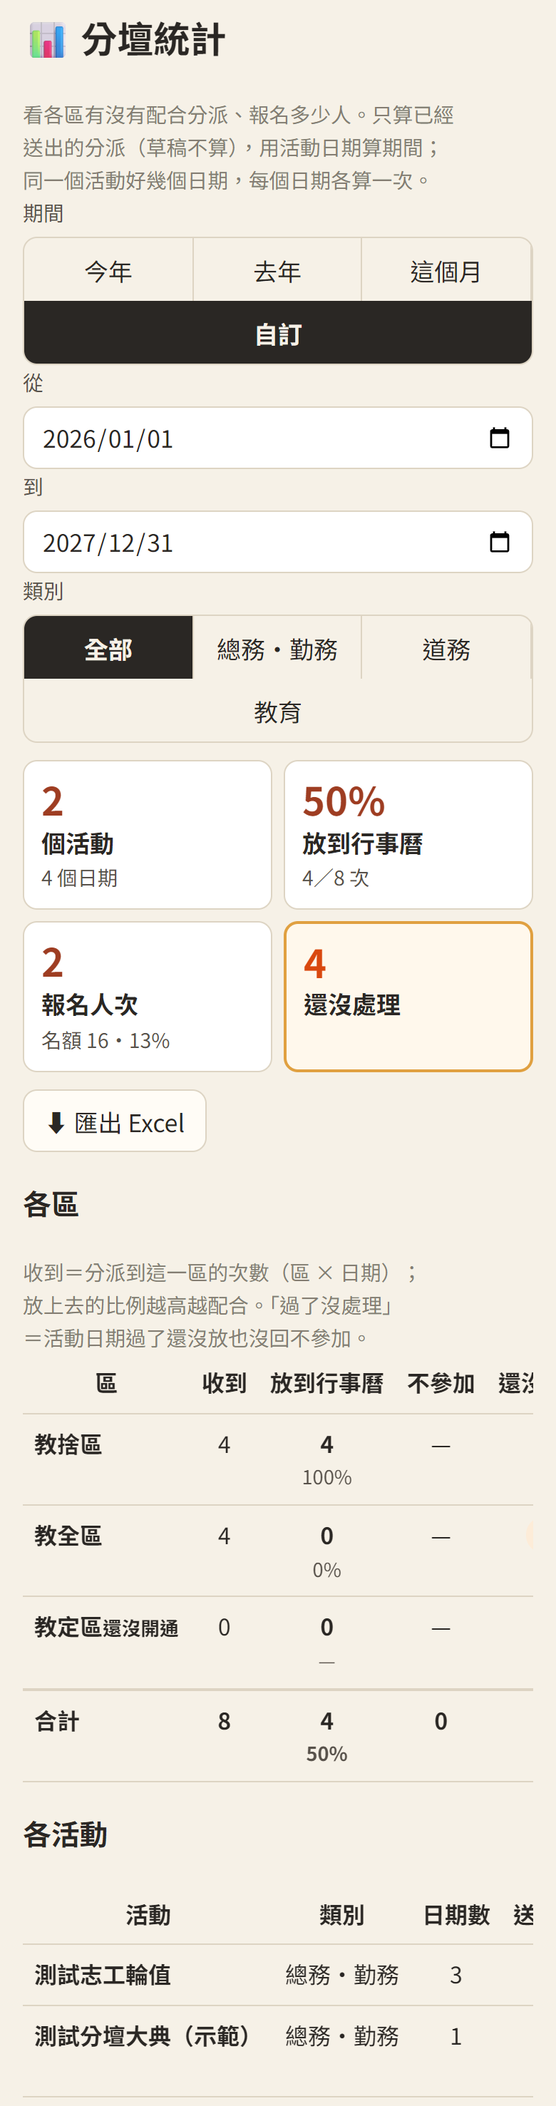
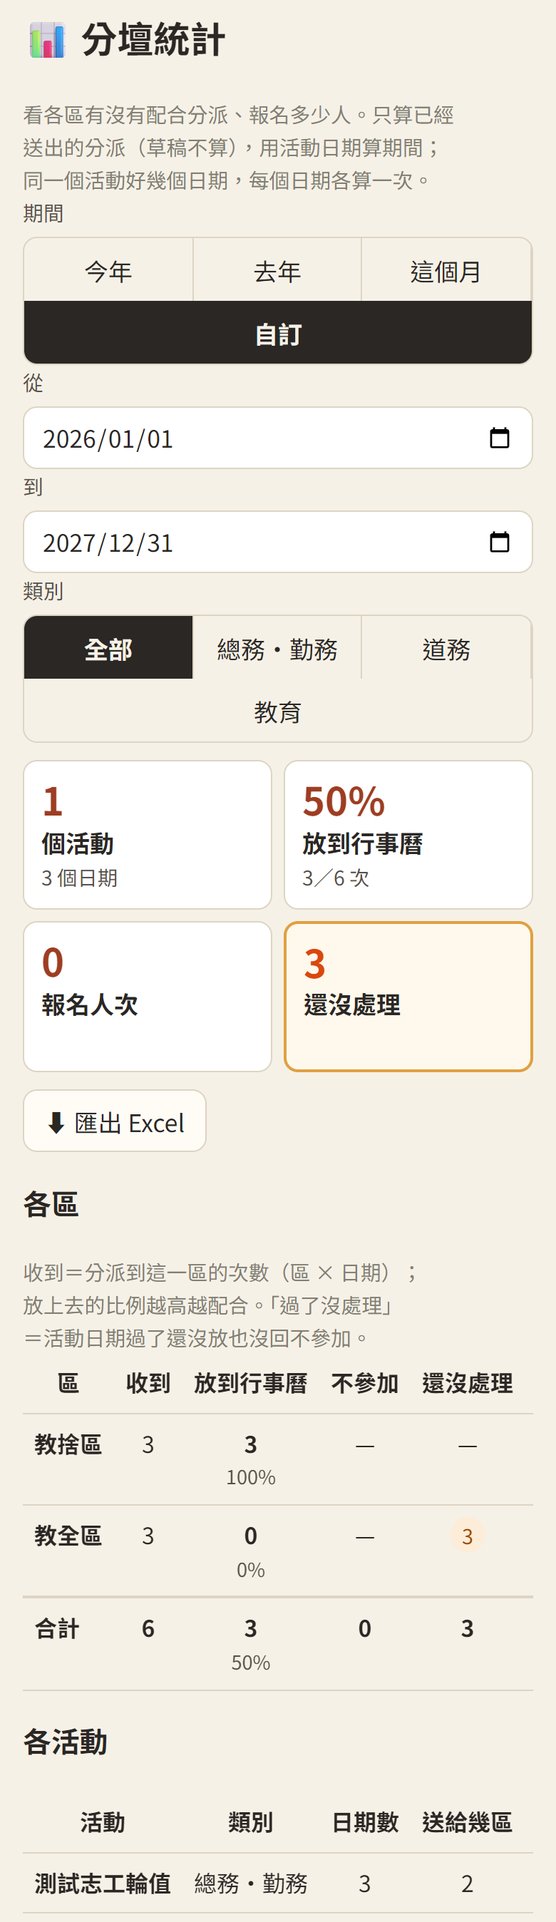
分壇唯讀帳號：只看清單、總表、整組總覽、統計，不能修改

diff --git a/index.html b/index.html
@@ -23,7 +23,7 @@
   <link rel="preconnect" href="https://fonts.googleapis.com">
   <link rel="preconnect" href="https://fonts.gstatic.com" crossorigin>
   <link href="https://fonts.googleapis.com/css2?family=Noto+Sans+TC:wght@400;500;700&family=Noto+Serif+TC:wght@600;700&display=swap" rel="stylesheet">
-  <link rel="stylesheet" href="css/app.css?v=20261122y">
+  <link rel="stylesheet" href="css/app.css?v=20261122z">
   <script>try { var t = localStorage.getItem('duty-calendar:text-size'); if (t === 'l' || t === 'xl') document.documentElement.classList.add('text-' + t); } catch (e) {}</script>
 </head>
 <body class="splash-on">
@@ -118,67 +118,67 @@
   <script src="https://cdn.jsdelivr.net/npm/fullcalendar@6.1.21/index.global.min.js"></script>
   <script src="https://cdn.jsdelivr.net/npm/@fullcalendar/core@6.1.21/locales/zh-tw.global.min.js"></script>
   <!-- 改了 js、css 後把 ?v= 的日期換新，手機才不會用到舊的檔案（GitHub Pages 會快取 10 分鐘） -->
-  <script src="js/site.js?v=20261122y"></script>
-  <script src="js/region.js?v=20261122y"></script>
-  <script src="js/config.js?v=20261122y"></script>
-  <script src="js/api.js?v=20261122y"></script>
-  <script src="js/format.js?v=20261122y"></script>
-  <script src="js/member-suggest.js?v=20261122y"></script>
-  <script src="js/member-file.js?v=20261122y"></script>
-  <script src="js/family.js?v=20261122y"></script>
-  <script src="js/lunar-util.js?v=20261122y"></script>
-  <script src="js/date-list.js?v=20261122y"></script>
-  <script src="js/share.js?v=20261122y"></script>
-  <script src="js/addcal.js?v=20261122y"></script>
-  <script src="js/duty-cache.js?v=20261122y"></script>
-  <script src="js/thanks-board.js?v=20261122y"></script>
-  <script src="js/calendar.js?v=20261122y"></script>
-  <script src="js/confirm.js?v=20261122y"></script>
-  <script src="js/reschedule.js?v=20261122y"></script>
-  <script src="js/signup.js?v=20261122y"></script>
-  <script src="js/duty-images.js?v=20261122y"></script>
-  <script src="js/roster-grid.js?v=20261122y"></script>
-  <script src="js/grid-page.js?v=20261122y"></script>
-  <script src="js/grid-image.js?v=20261122y"></script>
-  <script src="js/thanks-image.js?v=20261122y"></script>
-  <script src="js/celebrate.js?v=20261122y"></script>
-  <script src="js/duty.js?v=20261122y"></script>
-  <script src="js/mine.js?v=20261122y"></script>
-  <script src="js/venue-hours.js?v=20261122y"></script>
-  <script src="js/venue.js?v=20261122y"></script>
-  <script src="js/push.js?v=20261122y"></script>
-  <script src="js/admin.js?v=20261122y"></script>
-  <script src="js/admin-pages.js?v=20261122y"></script>
-  <script src="js/draft-editor.js?v=20261122y"></script>
-  <script src="js/group-fair.js?v=20261122y"></script>
-  <script src="js/admin-duties.js?v=20261122y"></script>
-  <script src="js/admin-accounts.js?v=20261122y"></script>
-  <script src="js/admin-site.js?v=20261122y"></script>
-  <script src="js/region-setup.js?v=20261122y"></script>
-  <script src="js/import-parse.js?v=20261122y"></script>
-  <script src="js/admin-import.js?v=20261122y"></script>
-  <script src="js/admin-people.js?v=20261122y"></script>
-  <script src="js/admin-hq.js?v=20261122y"></script>
-  <script src="js/stats-calc.js?v=20261122y"></script>
-  <script src="js/edu-stats.js?v=20261122y"></script>
-  <script src="js/admin-goals.js?v=20261122y"></script>
-  <script src="js/admin-venue.js?v=20261122y"></script>
-  <script src="js/admin-push.js?v=20261122y"></script>
-  <script src="js/tutorial.js?v=20261122y"></script>
-  <script src="js/help.js?v=20261122y"></script>
-  <script src="js/rollcall.js?v=20261122y"></script>
-  <script src="js/stats-export.js?v=20261122y"></script>
-  <script src="js/repair.js?v=20261122y"></script>
-  <script src="js/activity-report.js?v=20261122y"></script>
-  <script src="js/member-stats.js?v=20261122y"></script>
-  <script src="js/admin-stats.js?v=20261122y"></script>
-  <script src="js/admin-report.js?v=20261122y"></script>
-  <script src="js/admin-recent-signups.js?v=20261122y"></script>
-  <script src="js/admin-notice.js?v=20261122y"></script>
-  <script src="js/admin-notify.js?v=20261122y"></script>
-  <script src="js/history-parse.js?v=20261122y"></script>
-  <script src="js/admin-history.js?v=20261122y"></script>
-  <script src="js/easy-mode.js?v=20261122y"></script>
-  <script src="js/app.js?v=20261122y"></script>
+  <script src="js/site.js?v=20261122z"></script>
+  <script src="js/region.js?v=20261122z"></script>
+  <script src="js/config.js?v=20261122z"></script>
+  <script src="js/api.js?v=20261122z"></script>
+  <script src="js/format.js?v=20261122z"></script>
+  <script src="js/member-suggest.js?v=20261122z"></script>
+  <script src="js/member-file.js?v=20261122z"></script>
+  <script src="js/family.js?v=20261122z"></script>
+  <script src="js/lunar-util.js?v=20261122z"></script>
+  <script src="js/date-list.js?v=20261122z"></script>
+  <script src="js/share.js?v=20261122z"></script>
+  <script src="js/addcal.js?v=20261122z"></script>
+  <script src="js/duty-cache.js?v=20261122z"></script>
+  <script src="js/thanks-board.js?v=20261122z"></script>
+  <script src="js/calendar.js?v=20261122z"></script>
+  <script src="js/confirm.js?v=20261122z"></script>
+  <script src="js/reschedule.js?v=20261122z"></script>
+  <script src="js/signup.js?v=20261122z"></script>
+  <script src="js/duty-images.js?v=20261122z"></script>
+  <script src="js/roster-grid.js?v=20261122z"></script>
+  <script src="js/grid-page.js?v=20261122z"></script>
+  <script src="js/grid-image.js?v=20261122z"></script>
+  <script src="js/thanks-image.js?v=20261122z"></script>
+  <script src="js/celebrate.js?v=20261122z"></script>
+  <script src="js/duty.js?v=20261122z"></script>
+  <script src="js/mine.js?v=20261122z"></script>
+  <script src="js/venue-hours.js?v=20261122z"></script>
+  <script src="js/venue.js?v=20261122z"></script>
+  <script src="js/push.js?v=20261122z"></script>
+  <script src="js/admin.js?v=20261122z"></script>
+  <script src="js/admin-pages.js?v=20261122z"></script>
+  <script src="js/draft-editor.js?v=20261122z"></script>
+  <script src="js/group-fair.js?v=20261122z"></script>
+  <script src="js/admin-duties.js?v=20261122z"></script>
+  <script src="js/admin-accounts.js?v=20261122z"></script>
+  <script src="js/admin-site.js?v=20261122z"></script>
+  <script src="js/region-setup.js?v=20261122z"></script>
+  <script src="js/import-parse.js?v=20261122z"></script>
+  <script src="js/admin-import.js?v=20261122z"></script>
+  <script src="js/admin-people.js?v=20261122z"></script>
+  <script src="js/admin-hq.js?v=20261122z"></script>
+  <script src="js/stats-calc.js?v=20261122z"></script>
+  <script src="js/edu-stats.js?v=20261122z"></script>
+  <script src="js/admin-goals.js?v=20261122z"></script>
+  <script src="js/admin-venue.js?v=20261122z"></script>
+  <script src="js/admin-push.js?v=20261122z"></script>
+  <script src="js/tutorial.js?v=20261122z"></script>
+  <script src="js/help.js?v=20261122z"></script>
+  <script src="js/rollcall.js?v=20261122z"></script>
+  <script src="js/stats-export.js?v=20261122z"></script>
+  <script src="js/repair.js?v=20261122z"></script>
+  <script src="js/activity-report.js?v=20261122z"></script>
+  <script src="js/member-stats.js?v=20261122z"></script>
+  <script src="js/admin-stats.js?v=20261122z"></script>
+  <script src="js/admin-report.js?v=20261122z"></script>
+  <script src="js/admin-recent-signups.js?v=20261122z"></script>
+  <script src="js/admin-notice.js?v=20261122z"></script>
+  <script src="js/admin-notify.js?v=20261122z"></script>
+  <script src="js/history-parse.js?v=20261122z"></script>
+  <script src="js/admin-history.js?v=20261122z"></script>
+  <script src="js/easy-mode.js?v=20261122z"></script>
+  <script src="js/app.js?v=20261122z"></script>
 </body>
 </html>

diff --git a/js/admin-hq.js b/js/admin-hq.js
@@ -13,7 +13,8 @@
     withdrawn: ['已收回', 'st-no'], 'not-open': ['還沒開通', 'st-off'], none: ['沒收到', 'st-off'], error: ['連不上', 'st-off']
   };
   /** 這個帳號能選的類別（分壇的總務・勤務／道務／教育帳號只能選自己那一類，2026/11/22） */
-  const myCats = () => { const r = (Api.adminWho() || {}).role; return CATS.filter(([v]) => r === '總管理者' || r === v); };
+  const myCats = () => { const r = (Api.adminWho() || {}).role; return CATS.filter(([v]) => r === '總管理者' || r === '唯讀' || r === v); };
+  const readOnly = () => (Api.adminWho() || {}).role === '唯讀'; // 唯讀帳號：只看清單、總表、整組總覽、統計
   const catLabel = (c) => (CATS.find((x) => x[0] === c) || [c, c])[1];
   const when = (c) => [Fmt.shortDate(c.start) + (c.end && c.end !== c.start ? '～' + Fmt.shortDate(c.end) : ''), c.startTime ? c.startTime + (c.endTime ? '–' + c.endTime : '') : '', c.location].filter(Boolean).join('・');
   const quotaText = (c, q) => (c.quotaMode === 'none' ? '不限' : q ? q + ' 位' : c.quotaMode === 'self' ? '各區自己報' : '不限');
@@ -25,6 +26,7 @@
   // =====================================================================
 
   async function show(body, guard, sub) {
+    if (readOnly() && /^hq\/(new|edit\/|import|group\/)/.test(sub || '')) { location.replace('#/admin'); return; }
     if (sub === 'hq/import') return importPage(body, guard);
     if (/^hq\/group\//.test(sub || '')) return groupPage(body, guard, decodeURIComponent(sub.slice(9)));
     if (/^hq\/overview\//.test(sub || '')) return overview(body, guard, decodeURIComponent(sub.slice(12)));
@@ -44,7 +46,7 @@
     body.innerHTML = `
       <div class="notice"><p>📣 <strong>分派</strong>：開一個活動送給各區。各區的<strong>總務・勤務／道務／教育組長</strong>會在後台先看到，看過按「放到本區行事曆」才會出現在那一區的行事曆，家人在自己區報名；這裡的總表看得到每一區的狀態、人數和名字。</p>
       <p class="muted">13 區已開通 ${openN} 區；還沒開通的區收不到。</p></div>
-      <div class="admin-actions"><a class="btn btn-primary" href="#/admin/hq/new">＋ 開新的分派</a><a class="btn" href="#/admin/hq/import">📄 從檔案匯入行事曆</a></div>
+      ${readOnly() ? '<p class="role-note">👀 唯讀帳號：看得到各區的狀況、報名人數和統計，不能開或修改分派。</p>' : '<div class="admin-actions"><a class="btn btn-primary" href="#/admin/hq/new">＋ 開新的分派</a><a class="btn" href="#/admin/hq/import">📄 從檔案匯入行事曆</a></div>'}
       ${data.campaigns.some((c) => c.status === 'draft') ? `<p class="hint">📝 草稿：各區還看不到。同一個名稱的併成一組，點進去一起檢查一次，按「送出給各區」。</p>` : ''}
       ${data.campaigns.length ? `<div class="card-list">${draftGroups(data.campaigns).map((g) => `<a class="duty-card hq-card is-draft" href="#/admin/hq/group/${encodeURIComponent(g.key)}">
           <span class="card-main"><span class="card-title"><span class="hq-st st-seen">📝 草稿</span> ${esc(g.items[0].title)}${g.items.length > 1 ? `<small>（${g.items.length} 個日期）</small>` : ''}</span>
@@ -515,10 +517,10 @@
       <h2>${esc(c.title)}</h2>
       <p class="muted">${esc(catLabel(c.category))}・${esc(when(c))}${c.deadline ? '・報名截止 ' + esc(Fmt.shortDate(c.deadline)) : ''}・名額：${esc({ none: '不限', assigned: '分壇分配', self: '各區自己報' }[c.quotaMode])}</p>
       <div class="admin-actions">
-        <a class="btn" href="#/admin/hq/edit/${encodeURIComponent(c.id)}">✏ 修改</a>
+        ${readOnly() ? '' : `<a class="btn" href="#/admin/hq/edit/${encodeURIComponent(c.id)}">✏ 修改</a>`}
         <button type="button" class="btn" data-xlsx>⬇ 匯出 Excel</button>
         <button type="button" class="btn" data-remind>📋 提醒還沒處理的區</button>
-        <button type="button" class="btn btn-quiet-danger" data-del>🗑 刪除分派</button>
+        ${readOnly() ? '' : '<button type="button" class="btn btn-quiet-danger" data-del>🗑 刪除分派</button>'}
       </div>
       <div class="hq-total"><strong>${totalN}</strong> 位已報名${totalQ ? `／名額 ${totalQ} 位${totalN < totalQ ? `，還差 <strong>${totalQ - totalN}</strong> 位` : ''}` : ''}</div>
       <div class="hq-table-wrap"><table class="hq-table">
@@ -564,7 +566,7 @@
       } catch (e) { alert(e.message || '匯出失敗'); }
       btn.disabled = false;
     });
-    body.querySelector('[data-del]').addEventListener('click', async () => {
+    if (body.querySelector('[data-del]')) body.querySelector('[data-del]').addEventListener('click', async () => {
       const ok = await Confirm.open({ title: '確定要刪除這個分派嗎？', rows: [['名稱', c.title], ['日期', when(c)]], note: '各區的收件匣會標「分壇已收回」。已經放到行事曆、有人報名的，那一區的活動會留著，由組長自己決定。', confirmText: '確定刪除', cancelText: '不要刪除', danger: true });
       if (!ok) return;
       Busy.show('刪除中⋯');

diff --git a/worker/src/hq.js b/worker/src/hq.js
@@ -17,14 +17,16 @@ export function createHq({ gs, store, cross, openRegions }) {
   const err = (code, msg, details) => new gs.ApiError_(code, msg, details);
   const list = () => { try { const a = JSON.parse(store.getProp('HQ_CAMPAIGNS') || '[]'); return Array.isArray(a) ? a : []; } catch (e) { return []; } };
   const save = (a) => store.setProp('HQ_CAMPAIGNS', JSON.stringify(a));
-  function requireHqAdmin(body, curRegion) {
+  /** read＝只看的功能（清單、總表、整組總覽、統計）：唯讀帳號也可以（2026/11/22） */
+  function requireHqAdmin(body, curRegion, read) {
     if (curRegion !== HQ_CODE) throw err('FORBIDDEN', '這是宏教分壇才能用的功能');
     const who = gs.requireAdmin_(body);
-    if (['總管理者'].concat(CATS).indexOf(who.role) === -1) throw err('FORBIDDEN', '這個帳號不能用分派（分壇的帳號只有總管理者、總務・勤務、道務、教育）');
+    if (who.role === '唯讀') { if (read) return who; throw err('FORBIDDEN', '唯讀帳號只能看，不能修改'); }
+    if (['總管理者'].concat(CATS).indexOf(who.role) === -1) throw err('FORBIDDEN', '這個帳號不能用分派（分壇的帳號只有總管理者、總務・勤務、道務、教育、唯讀）');
     return who;
   }
   /** 這個帳號能不能管這一類（總管理者全部；勤務／道務／教育只管自己那一類） */
-  const canCat = (who, cat) => who.role === '總管理者' || who.role === cat;
+  const canCat = (who, cat) => who.role === '總管理者' || who.role === '唯讀' || who.role === cat;
   const catName = (cat) => (cat === '勤務' ? '總務・勤務' : cat);
   function guardCat(who, c) {
     if (c && !canCat(who, c.category)) throw err('FORBIDDEN', '這個帳號只能管「' + catName(who.role) + '」的分派，「' + (c.title || '') + '」是「' + catName(c.category) + '」的');
@@ -111,9 +113,9 @@ export function createHq({ gs, store, cross, openRegions }) {
   const special = {};
   /** 分派清單（新的排前面） */
   special.hqList = async (body, curRegion) => {
-    const who = requireHqAdmin(body, curRegion);
+    const who = requireHqAdmin(body, curRegion, true);
     const open = await openSet();
-    return { role: who.role, campaigns: list().filter((c) => canCat(who, c.category)).slice().sort((a, b) => b.start.localeCompare(a.start)), targets: TARGETS.map(([code, name]) => ({ code, name, open: open.has(code) })) };
+    return { role: who.role, campaigns: list().filter((c) => canCat(who, c.category) && !(who.role === '唯讀' && c.status === 'draft')).slice().sort((a, b) => b.start.localeCompare(a.start)), targets: TARGETS.map(([code, name]) => ({ code, name, open: open.has(code) })) };
   };
   /** 新增或修改分派（body.campaign；有 id＝修改），存好馬上送出去 */
   special.hqSave = async (body, curRegion) => {
@@ -208,7 +210,7 @@ export function createHq({ gs, store, cross, openRegions }) {
   };
   /** 總表：每一區的狀態、名額、報名人數、名字 */
   special.hqSummary = async (body, curRegion) => {
-    const who = requireHqAdmin(body, curRegion);
+    const who = requireHqAdmin(body, curRegion, true);
     const c = list().find((x) => x.id === body.id);
     if (!c) throw err('NOT_FOUND', '找不到這個分派');
     guardCat(who, c);
@@ -226,7 +228,7 @@ export function createHq({ gs, store, cross, openRegions }) {
    * 每一區只問一次（hqReportMany），回傳 { campaigns, regions: [{code,name,open}], cells: { 分派代號: { 區: 回報 } } }
    */
   special.hqGroupSummary = async (body, curRegion) => {
-    const who = requireHqAdmin(body, curRegion);
+    const who = requireHqAdmin(body, curRegion, true);
     const ids = Array.isArray(body.ids) ? body.ids.map(String) : [];
     const cs = list().filter((x) => ids.indexOf(x.id) !== -1 && x.status !== 'draft' && canCat(who, x.category)).sort((a, b) => a.start.localeCompare(b.start));
     if (!cs.length) throw err('NOT_FOUND', '找不到這些分派，可能已經刪掉了');
@@ -237,7 +239,7 @@ export function createHq({ gs, store, cross, openRegions }) {
    * 回傳和整組總覽一樣的格式，但不含名字（只要狀態、名額、人數）；畫面上再依區、類別、活動加總。
    */
   special.hqStats = async (body, curRegion) => {
-    const who = requireHqAdmin(body, curRegion);
+    const who = requireHqAdmin(body, curRegion, true);
     const from = DATE.test(String(body.from || '')) ? body.from : '0000-00-00';
     const to = DATE.test(String(body.to || '')) ? body.to : '9999-99-99';
     const cs = list().filter((x) => x.status !== 'draft' && canCat(who, x.category) && x.start >= from && x.start <= to).sort((a, b) => a.start.localeCompare(b.start));

diff --git a/js/admin-accounts.js b/js/admin-accounts.js
@@ -13,7 +13,7 @@
   };
   // 宏教分壇（2026/11/22）：只有總務・勤務／道務／教育帳號，各自只管自己那一類的分派
   const isHq = !!(window.Region && Region.code === 'hq');
-  if (isHq) { ROLE_NOTE.勤務 = '總務・勤務的分派：開、改、送出、看總表和統計'; ROLE_NOTE.道務 = '道務的分派：開、改、送出、看總表和統計'; ROLE_NOTE.教育 = '教育的分派：開、改、送出、看總表和統計'; }
+  if (isHq) { ROLE_NOTE.勤務 = '總務・勤務的分派：開、改、送出、看總表和統計'; ROLE_NOTE.道務 = '道務的分派：開、改、送出、看總表和統計'; ROLE_NOTE.教育 = '教育的分派：開、改、送出、看總表和統計'; ROLE_NOTE.唯讀 = '全部分派的總表、整組總覽、統計都看得到，什麼都不能改'; }
 
   function show(body, guard) {
     body.innerHTML = '<p class="panel-empty">載入中⋯</p>';
@@ -66,7 +66,7 @@
         <form class="admin-form" novalidate>
           <label class="form-row"><span>帳號（登入時輸入）</span><input class="input" id="acc-account" name="account" value="${esc(a ? a.account : '')}" placeholder="例：道務組" autocomplete="off"></label>
           <label class="form-row"><span>名稱或負責人（選填）</span><input class="input" id="acc-name" name="name" value="${esc(a ? a.name : '')}"></label>
-          <div class="form-row"><span>角色</span><div class="role-pick">${data.roles.filter((r) => !isHq || ['勤務', '道務', '教育'].indexOf(r) !== -1).map((r) => `
+          <div class="form-row"><span>角色</span><div class="role-pick">${data.roles.filter((r) => !isHq || ['勤務', '道務', '教育', '唯讀'].indexOf(r) !== -1).map((r) => `
             <label class="role-option"><input type="radio" name="role" value="${esc(r)}"${(a ? a.role : '') === r ? ' checked' : ''}><b>${esc(isHq && r === '勤務' ? '總務・勤務' : r)}</b><small>${esc(ROLE_NOTE[r] || '')}</small></label>`).join('')}</div></div>
           <label class="form-row"><span>${isNew ? '密碼' : '新密碼（不改就留空）'}</span>
             <div class="pw-row"><input class="input" id="acc-password" name="password" type="text" autocomplete="new-password"><button type="button" class="btn btn-small" data-gen>產生一組</button></div></label>

diff --git a/js/admin.js b/js/admin.js
@@ -459,6 +459,7 @@
 
   /** 角色說明（勤務／道務／教育／唯讀帳號在每頁上方看到） */
   function roleNote(role) {
+    if (isHq() && role === '唯讀') return '';
     if (isHq()) return ['勤務', '道務', '教育'].indexOf(role) !== -1 ? `<p class="role-note">這個帳號管理「${role === '勤務' ? '總務・勤務' : esc(role)}」的分派；其他類別的看不到。</p>` : '';
     if (role === '唯讀') return '<p class="role-note">👀 唯讀帳號：可以查看所有資料，不能修改。</p>';
     if (role === '場管') return `<p class="role-note">🏠 ${esc(window.SITE.venue)}場管帳號：審核家人們的場地借用申請。</p>`;

diff --git a/docs/spec.md b/docs/spec.md
@@ -332,7 +332,7 @@
   - **開分派**：名稱、類別（總務・勤務／道務／教育＝送給各區哪一組的組長）、性質（依類別）、日期（可跨天）、時間（可打 0830）、地點、服裝、說明、了愿項目（「、」分開，空白＝參加）、報名截止日、送給哪幾區（教全區＋12 區，還沒開通的標「收不到」，「全選已開通的」）、名額（不限／分壇分配：每區填數字，空白＝那區不限／各區自己報）。存檔馬上送出（worker/src/hq.js hqSave → 各區 Durable Object hqRpc → apps-script/Hq.gs hqDeliver_），記下每區送到沒有；修改後重新送，取消勾的區收回（hqWithdraw_）。分派存在分壇的指令碼屬性 HQ_CAMPAIGNS。
   - **總表**（hqSummary → 各區 hqReport_）：每區狀態（還沒看／看過了，還沒放／已放到行事曆／不參加＋原因／已收回／還沒開通）、名額、已報名（陪同不算）、還差；點人數看名字（姓名、身分、佛堂、項目，不含電話）；上面合計；「⬇ 匯出 Excel」（總計＋每區一個分頁）；「📋 提醒還沒處理的區」產生文字（複製／傳到 LINE）；「✏ 修改」「🗑 刪除分派」（各區收回，已放上去的勤務留著）。
   - **各區**（Hq.gs，收件匣存指令碼屬性 HQ_INBOX）：後台首頁最上面「📥 宏教分壇分派：N 件待處理」（新的、看過還沒放、分壇有更新），「去看看」→ #/admin/hqinbox 收件匣；總管理者看全部，總務・勤務／道務／教育帳號只看自己類別，唯讀看不到。點開＝看過（記誰、何時）；「📅 放到本區行事曆」：可填本區補充說明、負責組，各區自己報名額的要填幾位 → 新增一筆勤務（來源欄＝HQ:分派代號，說明＝分壇說明＋本區名額＋【本區補充】；只有一個了愿項目時名額＝最多人數）；已放上去的同一個按鈕改本區補充。「本區不參加」要寫原因；已有人報名不能不參加；沒人報名的會從行事曆拿下來。分壇改內容時已放上去的勤務自動照新內容改（以總管理者身分 adminUpdateDuty_，失敗記 syncError 顯示），收件匣標「分壇有更新」。分壇分派的勤務在勤務管理不能直接修改、刪除（guardHqDuty_），行事曆卡片標 📣、報名頁標「📣 宏教分壇分派」。
-  - **分壇帳號（2026/11/22）**：分壇後台上方「📣 分派」「📊 統計」，總管理者另有「👤 帳號」（AccountsPage；分壇只能開「總務・勤務／道務／教育」帳號，沒有完整備份）。勤務／道務／教育帳號只看得到、開得了、改得了、刪得了自己那一類的分派（hqList 篩選；hqSave／hqSaveMany／hqSaveDrafts／hqDelete／hqDeleteDrafts／hqSummary／hqGroupSummary／hqStats 都檢查類別；畫面上類別只能選自己那一類）；唯讀、場管帳號不能用分派。
+  - **分壇帳號（2026/11/22）**：分壇後台上方「📣 分派」「📊 統計」，總管理者另有「👤 帳號」（AccountsPage；分壇只能開「總務・勤務／道務／教育」帳號，沒有完整備份）。勤務／道務／教育帳號只看得到、開得了、改得了、刪得了自己那一類的分派（hqList 篩選；hqSave／hqSaveMany／hqSaveDrafts／hqDelete／hqDeleteDrafts／hqSummary／hqGroupSummary／hqStats 都檢查類別；畫面上類別只能選自己那一類）；**唯讀帳號**（2026/11/22 加）：看得到全部類別已送出的分派清單、總表、整組總覽、統計（草稿看不到），沒有開新分派、匯入、修改、刪除（hqList／hqSummary／hqGroupSummary／hqStats 允許唯讀，其他都擋）；場管帳號不能用分派。帳號頁分壇可開的角色：總務・勤務、道務、教育、唯讀。
   - **📊 分壇統計（2026/11/22，#/admin/hqstats）**：期間（今年、去年、這個月、自訂，用活動日期）、類別（總管理者可選全部或一類）。hqStats 回傳期間內已送出的分派 × 各區的狀態、名額、人數（每一區只問一次 hqCountMany，不帶名字）。畫面：活動數（日期數）、放到行事曆比例、報名人次（名額、達成率）、還沒處理（其中已經過了的）；各區表（收到、放到行事曆、比例、不參加、還沒處理、過了沒處理、報名人次、名額，依配合度排）；各活動表（類別、日期數、送給幾區、報名人次、名額）；匯出 Excel（各區、各活動兩張表）。
   - **整組總覽（2026/11/22）**：分壇分派清單已送出的同名（名稱去空白＋類別）好幾個日期併成一張卡「（N 個日期）點開看整組總覽」（#/admin/hq/overview/<key>；單一日期的總表也有「📊 同名的整組總覽」連結）。hqGroupSummary：每一區只問一次（Durable Object 之間 hqReportMany），回傳日期 × 各區的狀態、名額、人數、名字。畫面：全部報名／名額、還有日期沒處理的區（只算還沒過的日期）和天數、表格（列＝日期、欄＝區，表頭和日期固定；已放的寫「✓ 幾位」或「報名／名額」，不夠紅字，點開看名字；其他寫狀態；欄頭有「! 幾天」；過去的日期淡色）、點日期進那一天的總表；「📋 提醒還沒處理的區」（各區還有幾天）、「⬇ 匯出 Excel」（總覽＋名單兩張表）。
   - **分派提醒（2026/11/22 改）**：各區後台上方多一個「📥 分壇分派」分頁（有分派才出現，唯讀帳號沒有；有待處理的加紅色「! N」，HqInbox.tab）；首頁提醒卡橘框＋紅色驚嘆號，同名活動（名稱去空白＋類別）併成一行寫「N 個日期：…」，按鈕「📥 去處理分派 ›」；收件匣頁同名的一組（待處理的組橘框、排前面），組內一個日期一行（待處理的左邊紅線），點一行打開；組裡有 2 個以上「還沒看／看過了，還沒放」的，下面有「📅 這 N 個日期一次放到本區行事曆」：補充說明、負責組、名額（各區自己報的）填一次，adminHqPublishMany（一次上鎖，收回的跳過，名額沒填整組擋，某天放不上去的列出來其他照放）。
